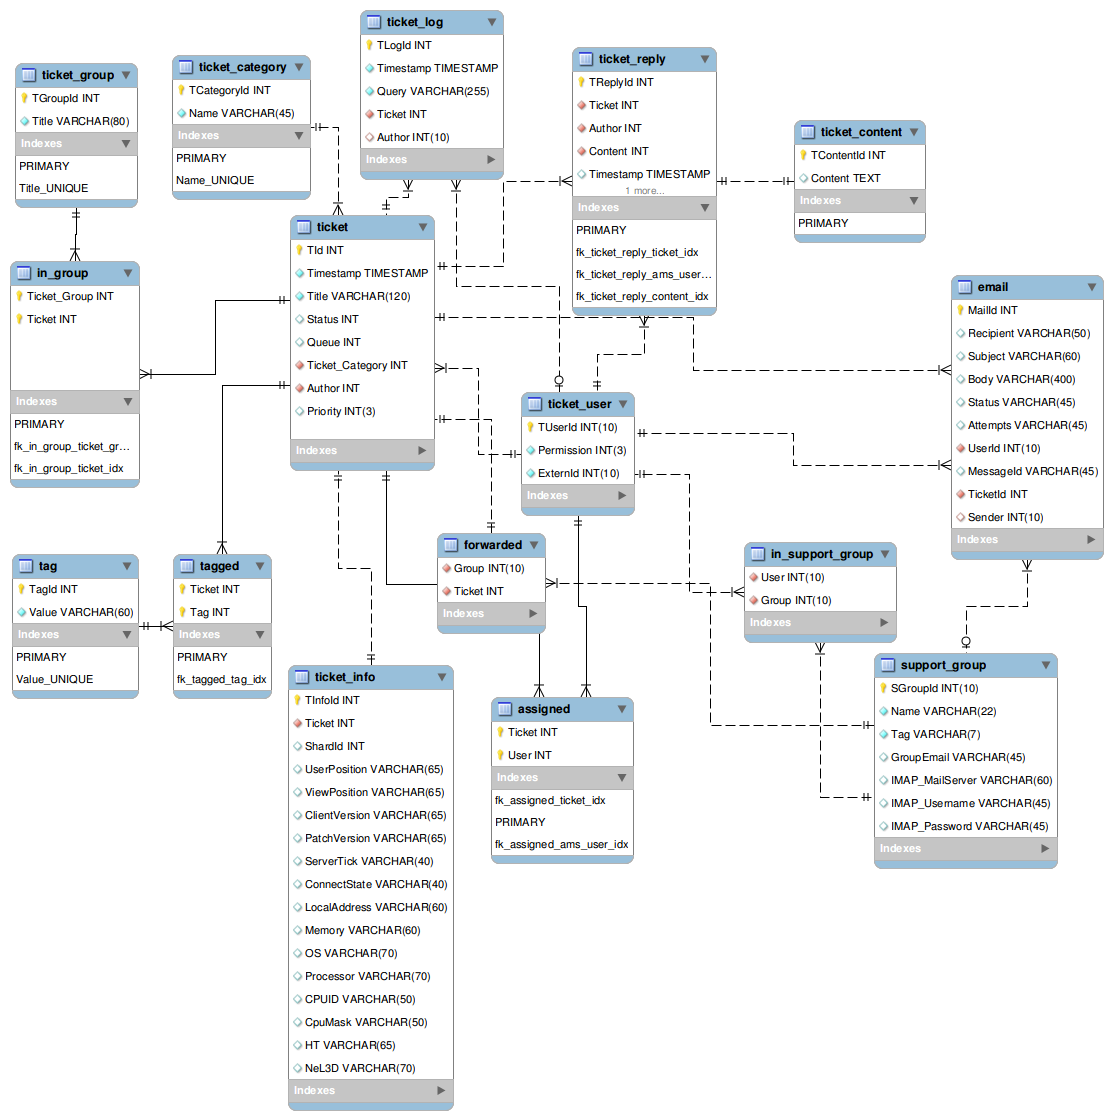
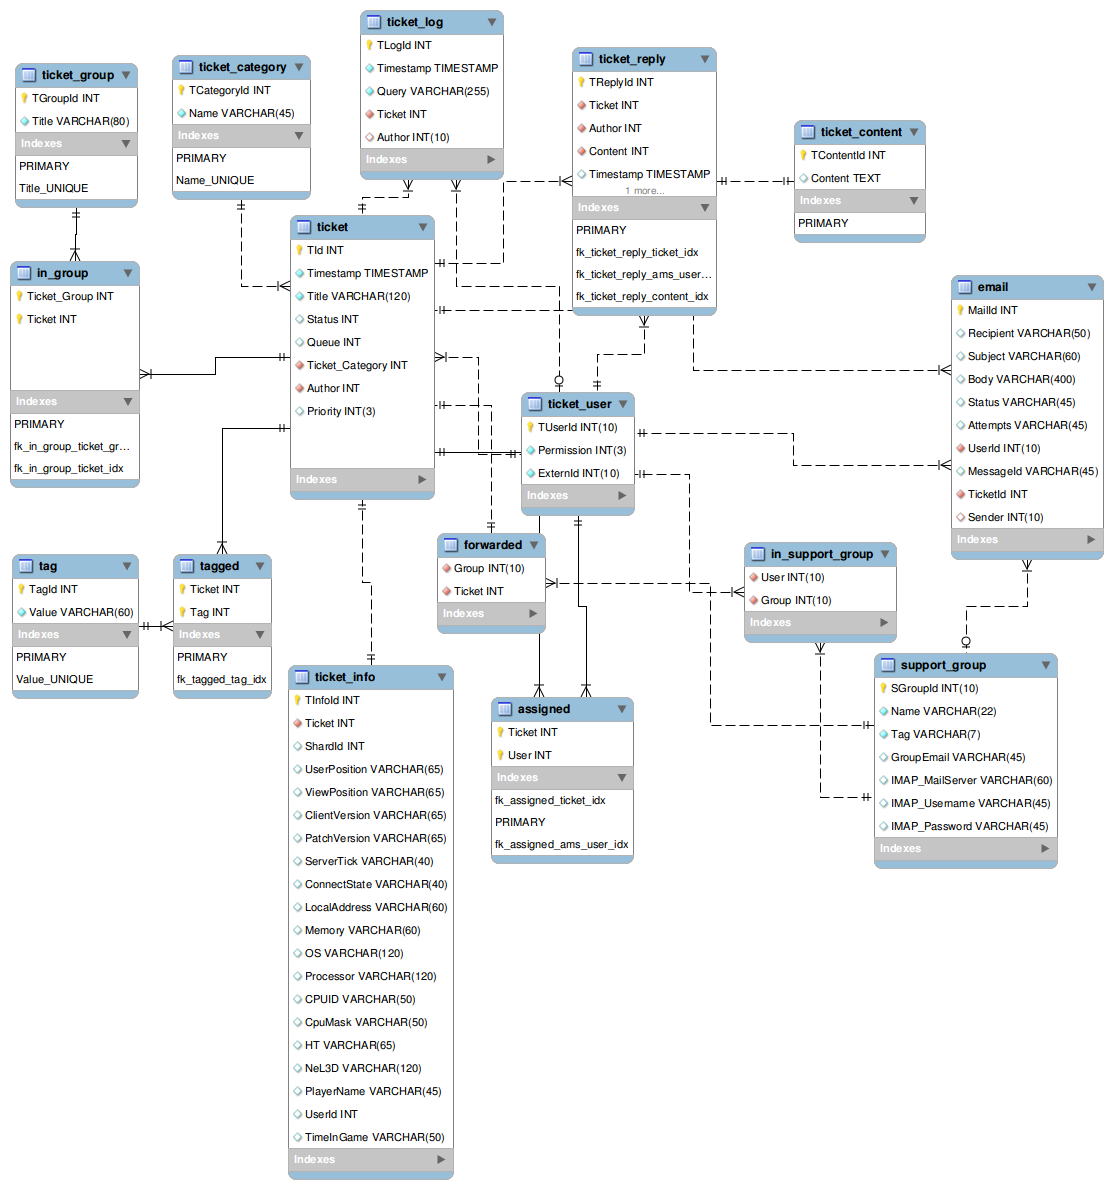
updated, stroing to the db seems to work!
--HG--
branch : quitta-gsoc-2013

diff --git a/code/ryzom/tools/server/ryzom_ams/ams_lib/autoload/ticket_info.php b/code/ryzom/tools/server/ryzom_ams/ams_lib/autoload/ticket_info.php
@@ -1,10 +1,9 @@
 <?php
 
-class Ticket_Log{
+class Ticket_Info{
     
     private $tInfoId;
-    private $ticket;
-    
+    private $ticket; 
     private $shardid;
     private $user_position;
     private $view_position;
@@ -20,6 +19,7 @@ class Ticket_Log{
     private $cpu_mask;
     private $ht;
     private $nel3d;
+    private $user_id;
 
     
[1 lines of base64/hex data omitted]
@@ -41,7 +41,6 @@ class Ticket_Log{
     
     //set values
     public function set($values) {
-        $this->setTInfoId($values['TInfoId']);
         $this->setTicket($values['Ticket']);
         $this->setShardId($values['ShardId']);
         $this->setUser_Position($values['UserPosition']);
@@ -58,6 +57,8 @@ class Ticket_Log{
         $this->setCPU_Mask($values['CpuMask']);
         $this->setHT($values['HT']);
         $this->setNel3D($values['NeL3D']);
+        $this->setUser_Id($values['UserId']);
+      
     } 
 
     //Load with tInfoId
@@ -78,11 +79,12 @@ class Ticket_Log{
     
     //create ticket info
     public function create() {
-        $query = "INSERT INTO ticket_Info (TInfoId, Ticket, ShardId, UserPosition,ViewPosition, ClientVersion, PatchVersion,ServerTick, ConnectState, LocalAddress, Memory, OS, 
-Processor, CPUID, CpuMask, HT, NeL3D) VALUES (:id, :ticket, :shardid, :userposition, :viewposition, :clientversion, :patchversion, :servertick, :connectstate, :localaddress, :memory, :os, :processor, :cpuid, :cpu_mask, :ht, :nel3d   )";
-        $values = Array('id' => $this->getTInfoId(), 'ticket' => $this->getTicket(), 'shardid' => $this->getShardId, 'userposition' => $this->getUser_Position(), 'viewposition' => $this->getView_Position(), 'clientversion' => $this->getClient_Version(),
+        $dbl = new DBLayer("lib");
+        $query = "INSERT INTO ticket_info ( Ticket, ShardId, UserPosition,ViewPosition, ClientVersion, PatchVersion,ServerTick, ConnectState, LocalAddress, Memory, OS, 
+Processor, CPUID, CpuMask, HT, NeL3D,  UserId) VALUES ( :ticket, :shardid, :userposition, :viewposition, :clientversion, :patchversion, :servertick, :connectstate, :localaddress, :memory, :os, :processor, :cpuid, :cpu_mask, :ht, :nel3d, :user_id )";
+        $values = Array('ticket' => $this->getTicket(), 'shardid' => $this->getShardId(), 'userposition' => $this->getUser_Position(), 'viewposition' => $this->getView_Position(), 'clientversion' => $this->getClient_Version(),
 'patchversion' => $this->getPatch_Version(), 'servertick' => $this->getServer_Tick(), 'connectstate' => $this->getConnect_State(), 'localaddress' => $this->getLocal_Address(), 'memory' => $this->getMemory(), 'os'=> $this->getOS(), 'processor' => $this->getProcessor(), 'cpuid' => $this->getCPUId(),
-'cpu_mask' => $this->getCpu_Mask(), 'ht' => $this->getHT(), 'nel3d' => $this->getNel3D());
+'cpu_mask' => $this->getCpu_Mask(), 'ht' => $this->getHT(), 'nel3d' => $this->getNel3D(), 'user_id' => $this->getUser_Id());
         $dbl->execute($query, $values);
     }
 
@@ -158,6 +160,11 @@ Processor, CPUID, CpuMask, HT, NeL3D) VALUES (:id, :ticket, :shardid, :userposit
         return $this->nel3d;
     }
     
+    public function getUser_Id(){
+       return $this->user_id;
+    }
+    
+
[1 lines of base64/hex data omitted]
      
     public function setTInfoId($id){
@@ -229,4 +236,9 @@ Processor, CPUID, CpuMask, HT, NeL3D) VALUES (:id, :ticket, :shardid, :userposit
         $this->nel3d = $n;
     }
     
+    public function setUser_Id($u){
+        $this->user_id = $u;
+    }
+    
+
 }

diff --git a/code/ryzom/tools/server/ryzom_ams/ams_lib/autoload/ticket.php b/code/ryzom/tools/server/ryzom_ams/ams_lib/autoload/ticket.php
@@ -83,7 +83,7 @@ class Ticket{
      * creates a ticket + first initial reply and fills in the content of it!
      * for_support_group defines to which support group the ticket has to  be forwarded
      */
-    public static function create_Ticket( $title, $content, $category, $author, $real_author, $for_support_group = 0) {
+    public static function create_Ticket( $title, $content, $category, $author, $real_author, $for_support_group = 0, $extra_info = 0) {
 
         //create the new ticket!
         $ticket = new Ticket();
@@ -91,6 +91,12 @@ class Ticket{
         $ticket->set($values);
         $ticket->create();
         $ticket_id = $ticket->getTId();
+        
+        //if ingame then add an extra info
+        if(Helpers::check_if_game_client() && $extra_info != 0){
+            $extra_info['Ticket'] = $ticket_id;
+            Ticket_Info::create_Ticket_Info($extra_info);
+        }
         
         //write a log entry
         if ( $author == $real_author){
@@ -104,6 +110,7 @@ class Ticket{
         if($for_support_group){
             Ticket::forwardTicket(0, $ticket_id, $for_support_group);
         }
+        
         //send email that new ticket has been created
         Mail_Handler::send_ticketing_mail($ticket->getAuthor(), $ticket, $content, "NEW", $ticket->getForwardedGroupId());
         return $ticket_id;

diff --git a/code/ryzom/tools/server/ryzom_ams/www/html/sql/install.php b/code/ryzom/tools/server/ryzom_ams/www/html/sql/install.php
@@ -396,14 +396,17 @@
           `PatchVersion` VARCHAR(65) NULL ,
           `ServerTick` VARCHAR(40) NULL ,
           `ConnectState` VARCHAR(40) NULL ,
-          `LocalAddress` VARCHAR(60) NULL ,
+          `LocalAddress` VARCHAR(70) NULL ,
           `Memory` VARCHAR(60) NULL ,
-          `OS` VARCHAR(70) NULL ,
-          `Processor` VARCHAR(70) NULL ,
+          `OS` VARCHAR(120) NULL ,
+          `Processor` VARCHAR(120) NULL ,
           `CPUID` VARCHAR(50) NULL ,
           `CpuMask` VARCHAR(50) NULL ,
-          `HT` VARCHAR(65) NULL ,
-          `NeL3D` VARCHAR(70) NULL ,
+          `HT` VARCHAR(35) NULL ,
+          `NeL3D` VARCHAR(120) NULL ,
+          `PlayerName` VARCHAR(45) NULL ,
+          `UserId` INT NULL ,
+          `TimeInGame` VARCHAR(50) NULL ,
           PRIMARY KEY (`TInfoId`) ,
           INDEX `fk_ticket_info_ticket1` (`Ticket` ASC) ,
           CONSTRAINT `fk_ticket_info_ticket1`

diff --git a/code/ryzom/tools/server/ryzom_ams/www/html/func/create_ticket.php b/code/ryzom/tools/server/ryzom_ams/www/html/func/create_ticket.php
@@ -18,7 +18,7 @@ function create_ticket(){
                     }else{
                         $author=  Ticket_User::constr_ExternId($_POST['target_id'])->getTUserId();
                     }
-                    $ticket_id = Ticket::create_Ticket($title, $content, $category, $author, $_SESSION['ticket_user']->getTUserId());
+                    $ticket_id = Ticket::create_Ticket($title, $content, $category, $author, $_SESSION['ticket_user']->getTUserId(),0, $_POST);
                     header("Location: index.php?page=show_ticket&id=".$ticket_id);
                     exit;
                     

diff --git a/code/ryzom/tools/server/ryzom_ams/www/html/inc/createticket.php b/code/ryzom/tools/server/ryzom_ams/www/html/inc/createticket.php
@@ -25,7 +25,13 @@ function createticket(){
             
      
         }
+        if(Helpers::check_if_game_client()){
+            //get all additional info, which is needed for adding the extra info page
+           $result[] =  $_GET;
+           $result['ingame'] = true;
+        }
         
+       
         //create array of category id & names
         $catArray = Ticket_Category::getAllCategories();
         $result['category'] = Gui_Elements::make_table_with_key_is_id($catArray, Array("getName"), "getTCategoryId" );
